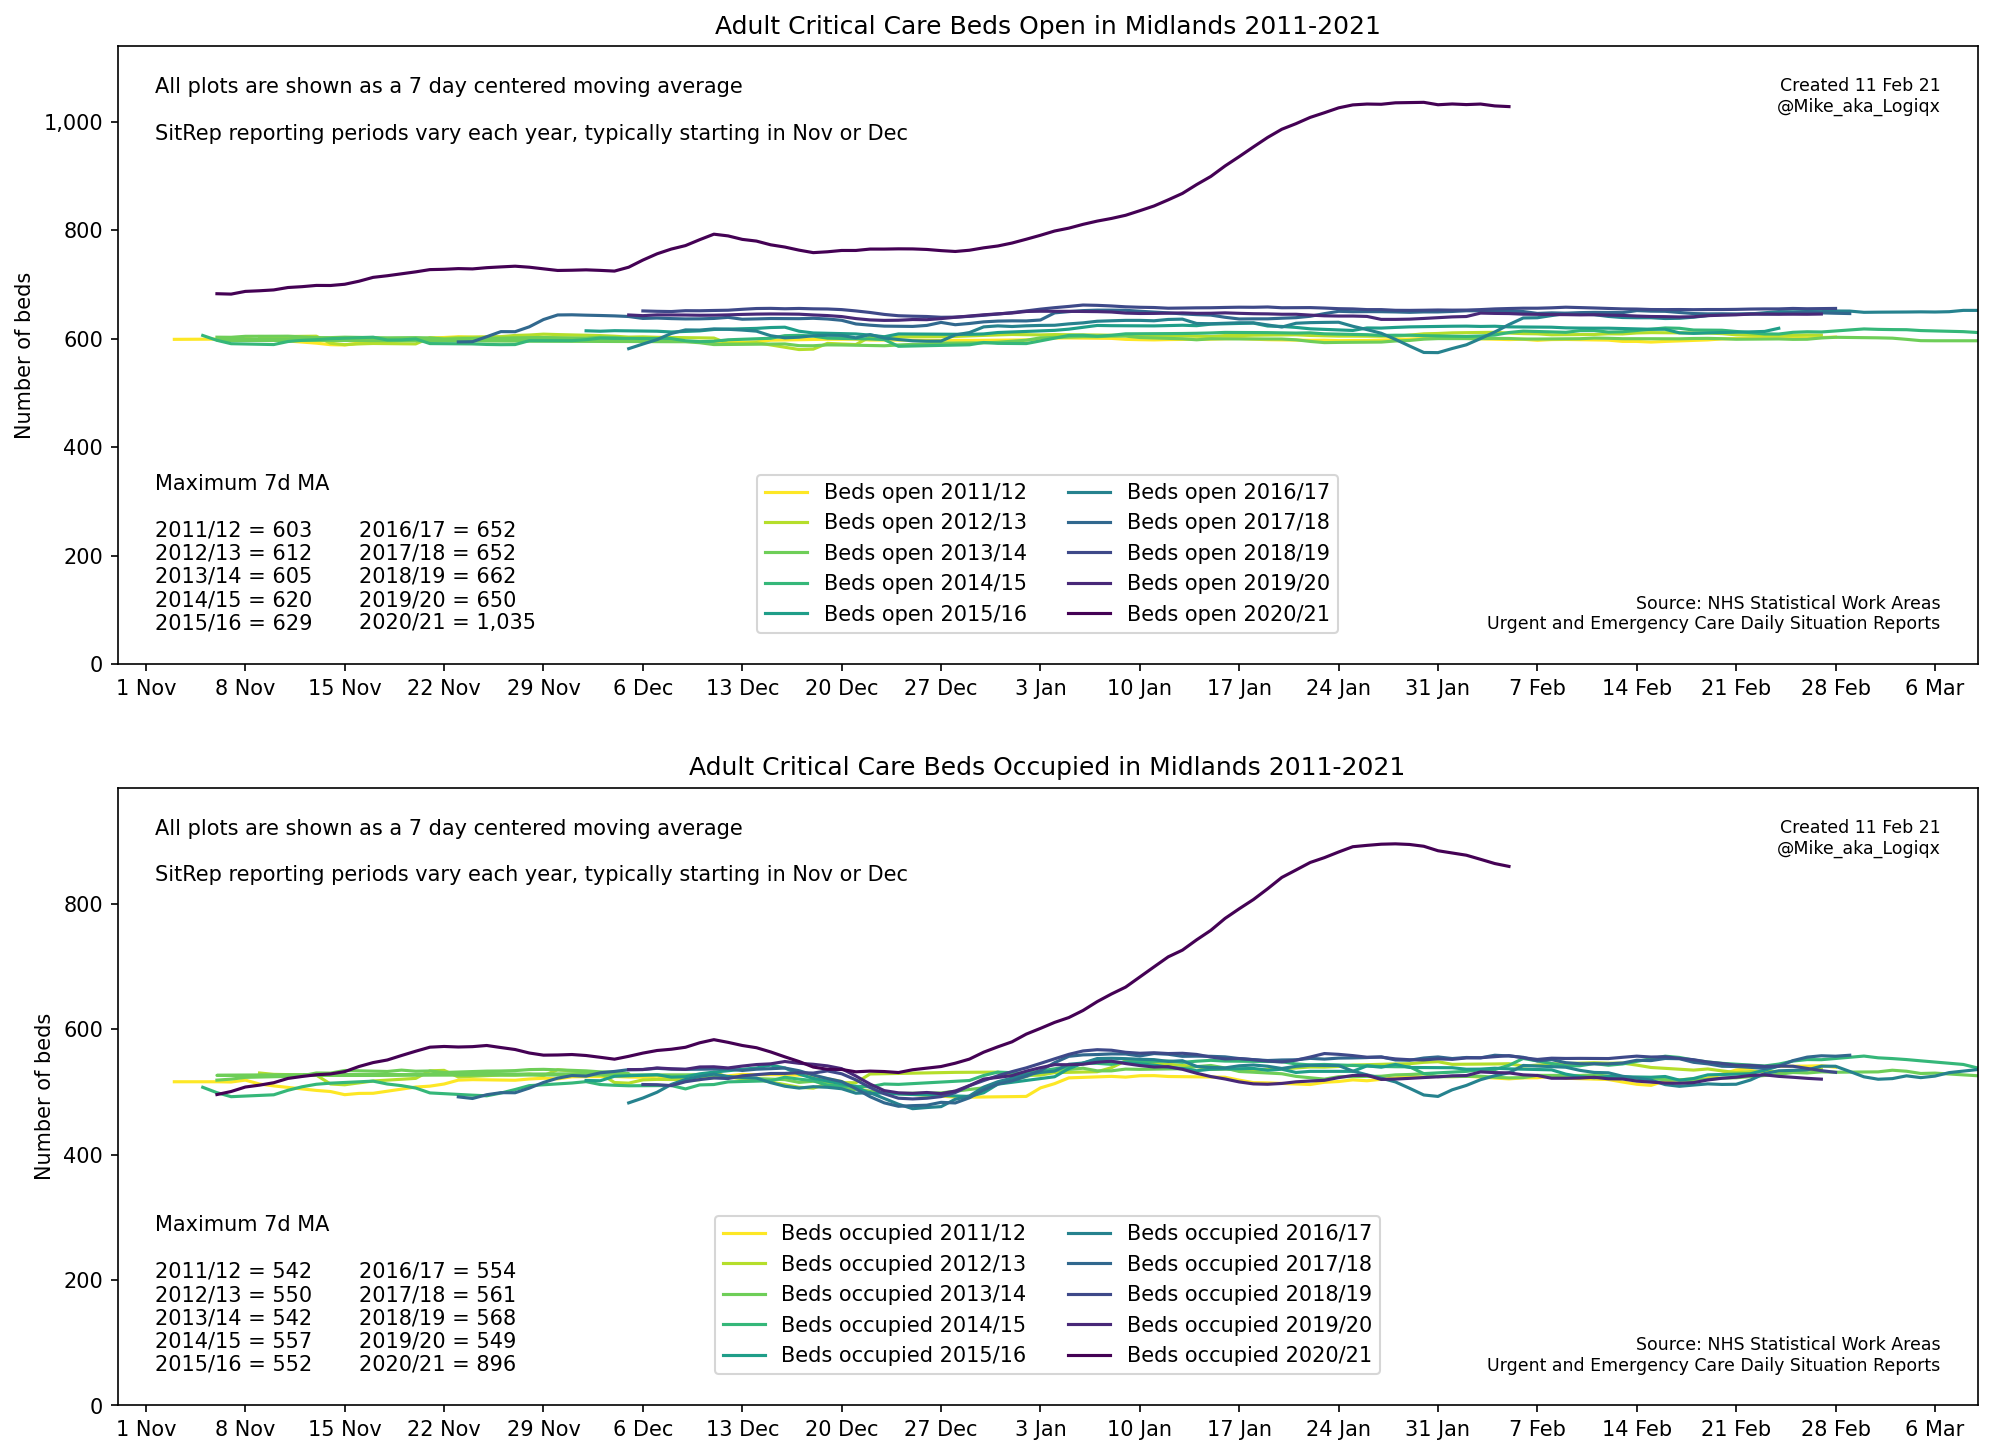
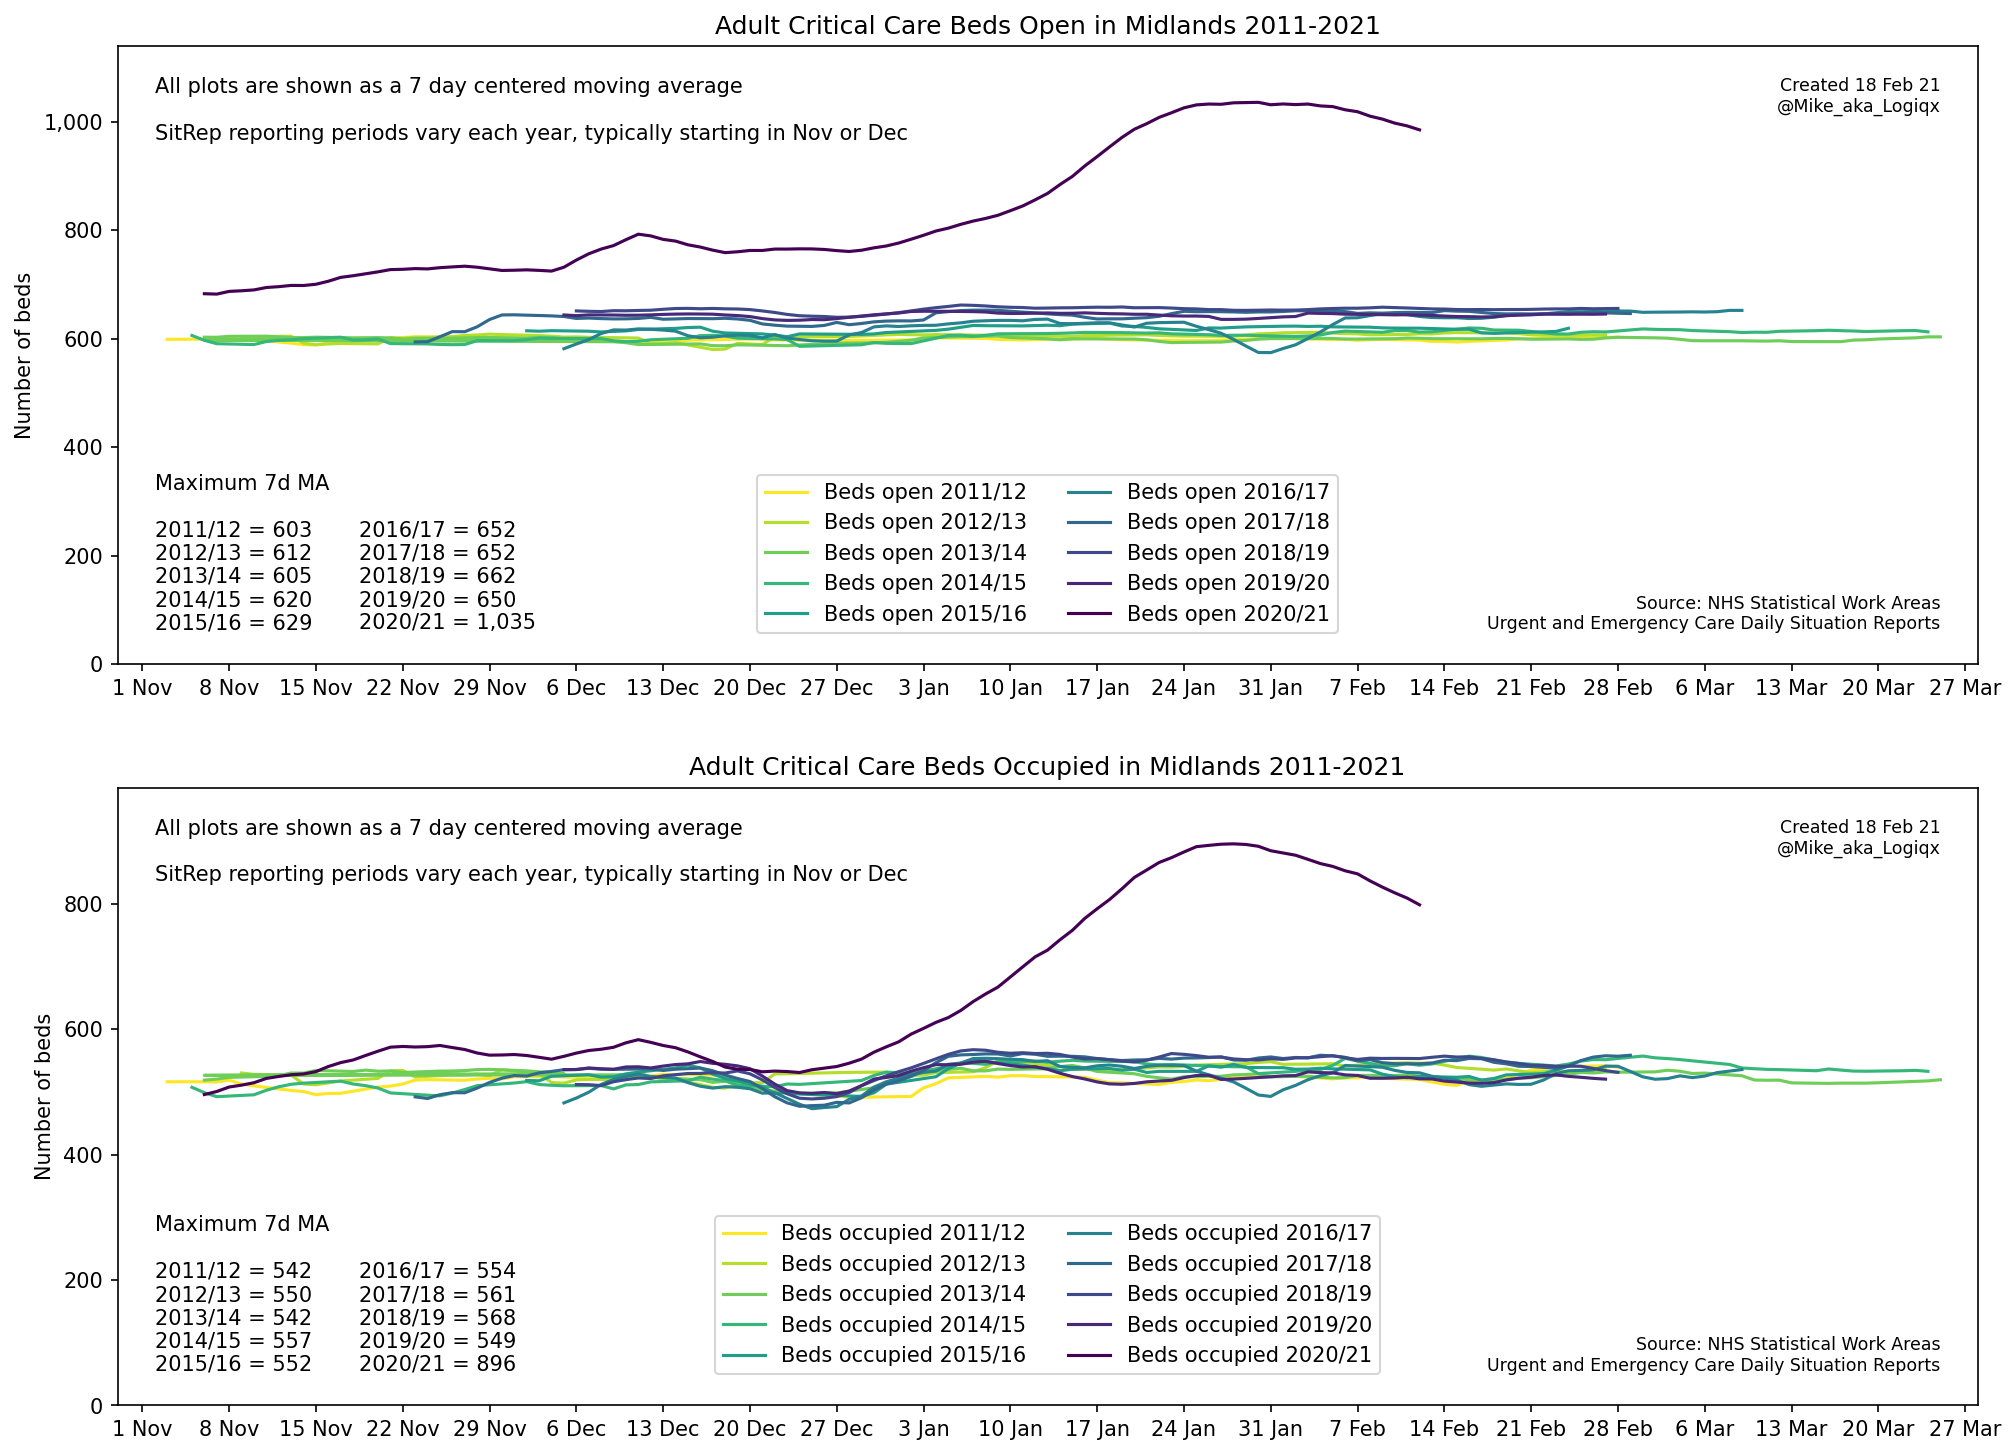
Refresh UEC SitReps

diff --git a/docs/uec-sitreps/README.md b/docs/uec-sitreps/README.md
@@ -4,7 +4,7 @@ Author: Michael George
 
 Created: 21 January 2021
 
-Updated: 11 February 2021
+Updated: 18 February 2021
 
 
 
